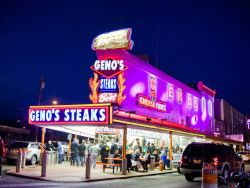
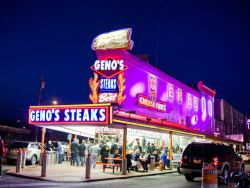
+ cheesesteak ims to dir and html

diff --git a/philly-foods.php b/philly-foods.php
@@ -19,9 +19,15 @@
 			<article>
 
 				<h2>The Cheesesteak</h2>
-				<figure>
+				<div>
 				<img src="images/cheesesteak/Genos-Steaks.jpg" alt="Geno's Steaks">
-				</figure>
+				<img src="images/cheesesteak/Dalessandros-Steaks.jpg" alt="Dalessandro's Steaks">
+				<img src="images/cheesesteak/Maxs-Steaks.jpg" alt="Max's Steaks">
+				<img src="images/cheesesteak/Pats-Steaks.jpg" alt="Pat's Steaks">
+				<img src="images/cheesesteak/Philips-Steaks.jpg" alt="Philip's Steaks">
+				<img src="images/cheesesteak/Steves-Steaks.jpg" alt="Steve's Steaks">
+				<img src="images/cheesesteak/Tonys-Steaks.jpg" alt="Tony's Steaks">
+				</div>
 				<p>The ultimate iconic Philly food is the cheesesteak. Invented by Pat Olivieri of Pat’s Steaks in 1930 and imitated by many, a true Philly cheesesteak requires thinly sliced beef and a crusty roll. But the choice of cheese — provolone, American or Cheez Whiz — is a matter of great debate. So is the choice of sandwich shop. The age-old feud between Pat’s King of Steaks and its across-the-street rival Geno’s Steaks draws thousands of visitors to Ninth Street and Passyunk Avenue for taste-offs. Other spots like Dalessandro’s Steaks and Hoagies, John’s Roast Pork, Joe’s Steak + Soda Shop, Steve’s Prince of Steaks, Tony Luke’s, Jim’s Steaks, Max’s Steaks and Delco Steaks also have impressive numbers of devoted fans. Your next best cheesesteak awaits with our guide on where to find them in Philly.</p>
 			
 			</article>
